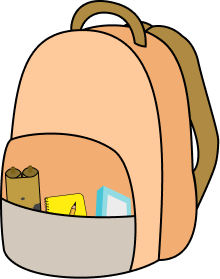
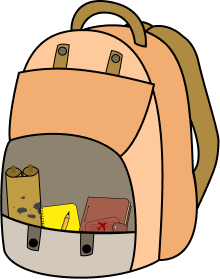
backpack basic

diff --git a/src/pages/BackpackTesting.tsx b/src/pages/BackpackTesting.tsx
@@ -1,23 +1,49 @@
-import React from "react";
+import React, { useState } from "react";
 import { Text } from "../atomic-design/atoms";
 import Button from "../atomic-design/atoms/Button/Button";
+import  BackpackButton  from "../atomic-design/molecules/BackpackButton/BackpackButton";
 import { MapButton } from "../atomic-design/molecules/MapButton/MapButton";
-import Page from "../atomic-design/templates/Page";
+import Page from "../atomic-design/templates/Page"; 
 
 
 export default function BackpackTesting(){
+
+    const[backpackOpen, setBackpackOpen] = useState(false);
+    
+    const toggleBackpack = () =>{
+        setBackpackOpen (!backpackOpen)
+        console.log(backpackOpen)
+    }
+
+    if(!backpackOpen) {
     return (
-        <Page transition="none" color="bg-white">
+        <Page transition="none">
             <div className="fixed top-2 right-2 z-40">
-                <Button
-                size="lg"
-                variant="backpack"
-                >
-            <Text text="Click to open the backpack" color="text-dark" />
-                </Button>
+                <img onClick={toggleBackpack} 
+                src={'./images/' + (!backpackOpen ? 'backpack' : 'backpack_open') + '.png'} 
+                height={100} width={100}/>    
             </div>
-        </Page>
-            
-        
-    );
-}
+        </Page> 
+            );
+    }
+    return (
+        <Page transition="none">
+        <div className="fixed top-2 right-2 z-40">
+            <img onClick={toggleBackpack} 
+            src={'./images/' + (!backpackOpen ? 'backpack' : 'backpack_open') + '.png'} 
+            height={100} width={100}/>    
+                    <div className="absolute inest-5 space-y-7 h-180 w-15 bg-yellow-200 border-2 border-black">
+                        <span className= "block">
+                            <img src="./images/travel_log.png" height={50} width={50} />
+                        </span>
+                        <span className="block">
+                            <img src="./images/field_book.png" height={50} width={50} />
+                        </span>
+                        <span className="block">
+                            <img src="./images/map.png" height={50} width={50} />
+                        </span>
+                    </div>      
+             </div>
+         </Page> 
+            );
+    }

diff --git a/src/atomic-design/atoms/Backpack/Backpack.tsx b/src/atomic-design/atoms/Backpack/Backpack.tsx
@@ -1,0 +1,31 @@
+import React, { useState } from 'react'
+import {bool, func} from 'prop-types';
+import BackpackContents from '../BackpackContents/BackpackContents';
+import BackpackButton from "../../molecules/BackpackButton/BackpackButton"
+
+interface Props{
+    open: boolean;
+    setOpen: boolean;
+}
+
+const Backpack = ({open, setOpen}) => {
+    return (
+        <div>
+            <img src="./images/backpack.png" 
+            open = {open}
+            onClick{ () => setOpen(!open)}
+            >
+                <div />
+                <div />
+                <div />
+            </img>
+        </div>
+    )
+}
+
+Backpack.propTypes = {
+    open: bool.isRequired,
+    setOpen: func.isRequired,
+};
+
+export default Backpack;

diff --git a/src/atomic-design/molecules/BackpackButton/BackpackButton.tsx b/src/atomic-design/molecules/BackpackButton/BackpackButton.tsx
@@ -1,0 +1,25 @@
+import React, { useState } from 'react';
+import {BackpackContents} from '../../atoms/BackpackContents/BackpackContents';
+import Button, {ButtonProps} from "../../atoms/Button/Button";
+import {MapButton} from "../../molecules/MapButton/MapButton";
+import Backpack from '../../atoms/Backpack/Backpack';
+
+function BackpackButton(){
+    const [open, setOpen] = useState(false);
+    
+    return (
+        <div>
+            <Backpack open={open} setOpen={setOpen} />
+            <img src="./images/backpack.png" />
+        </div>
+    );
+}
+
+
+
+
+BackpackButton .defaultProps = {
+    onClick: () => {},
+};
+
+export default BackpackButton;

diff --git a/src/atomic-design/atoms/BackpackContents/BackpackContents.tsx b/src/atomic-design/atoms/BackpackContents/BackpackContents.tsx
@@ -1,0 +1,25 @@
+import React from "react";
+import Map from "./Map";
+import FieldBook from "./FieldBook";
+import Glossary from "./TravelLog";
+
+export function BackpackContents({
+    items,
+    className,
+  }: {
+    items: "map" | "glossary" | "field book";
+    className?: string;
+  }) {
+    const classes = className + " pointer-events-none";
+  
+    switch (items) {
+      case "map":
+        return <Map className={classes} />;
+      case "glossary":
+        return <Glossary className={classes} />;
+      case "field book":
+        return <FieldBook className={classes} />;
+    }
+  }
+  
+  export default BackpackContents;

diff --git a/src/atomic-design/molecules/MapButton/MapButton.tsx b/src/atomic-design/molecules/MapButton/MapButton.tsx
@@ -7,12 +7,9 @@ export const MapButton = (props: ButtonProps) => {
     
     return (
         <div className="relative">
-            <Button
-            size = "lg"
-            variant = "map"
-            
-            />
-            
+            <Button>
+                <img src="./images/map.png" />
+            </Button>
         </div>
     )
 }

diff --git a/src/atomic-design/atoms/BackpackContents/FieldBook.tsx b/src/atomic-design/atoms/BackpackContents/FieldBook.tsx
@@ -1,0 +1,16 @@
+import React from 'react'
+import Button, { ButtonProps } from "../Button/Button";
+
+export const FieldBook = (props: ButtonProps) => {
+    return (
+        <div>
+            <h1>Field Book</h1>
+            <img 
+            src="./images/field_book.png"
+            />
+        
+        </div>
+    )
+}
+
+export default FieldBook

diff --git a/src/atomic-design/atoms/BackpackContents/TravelLog.tsx b/src/atomic-design/atoms/BackpackContents/TravelLog.tsx
@@ -1,0 +1,16 @@
+import React from 'react'
+import Button, { ButtonProps } from "../Button/Button";
+
+export const Glossary = (props: ButtonProps) => {
+    return (
+        <div>
+            <h1>Glossary</h1>
+            <img 
+            src="./images/travel_log.png"
+            />
+        
+        </div>
+    )
+}
+
+export default Glossary

diff --git a/src/atomic-design/atoms/BackpackContents/Map.tsx b/src/atomic-design/atoms/BackpackContents/Map.tsx
@@ -1,0 +1,16 @@
+import React from 'react'
+import Button, { ButtonProps } from "../Button/Button";
+
+export const Map = (props: ButtonProps) => {
+    return (
+        <div>
+            <h1>Map</h1>
+            <img 
+            src="./images/map.png"
+            />
+        
+        </div>
+    )
+}
+
+export default Map
